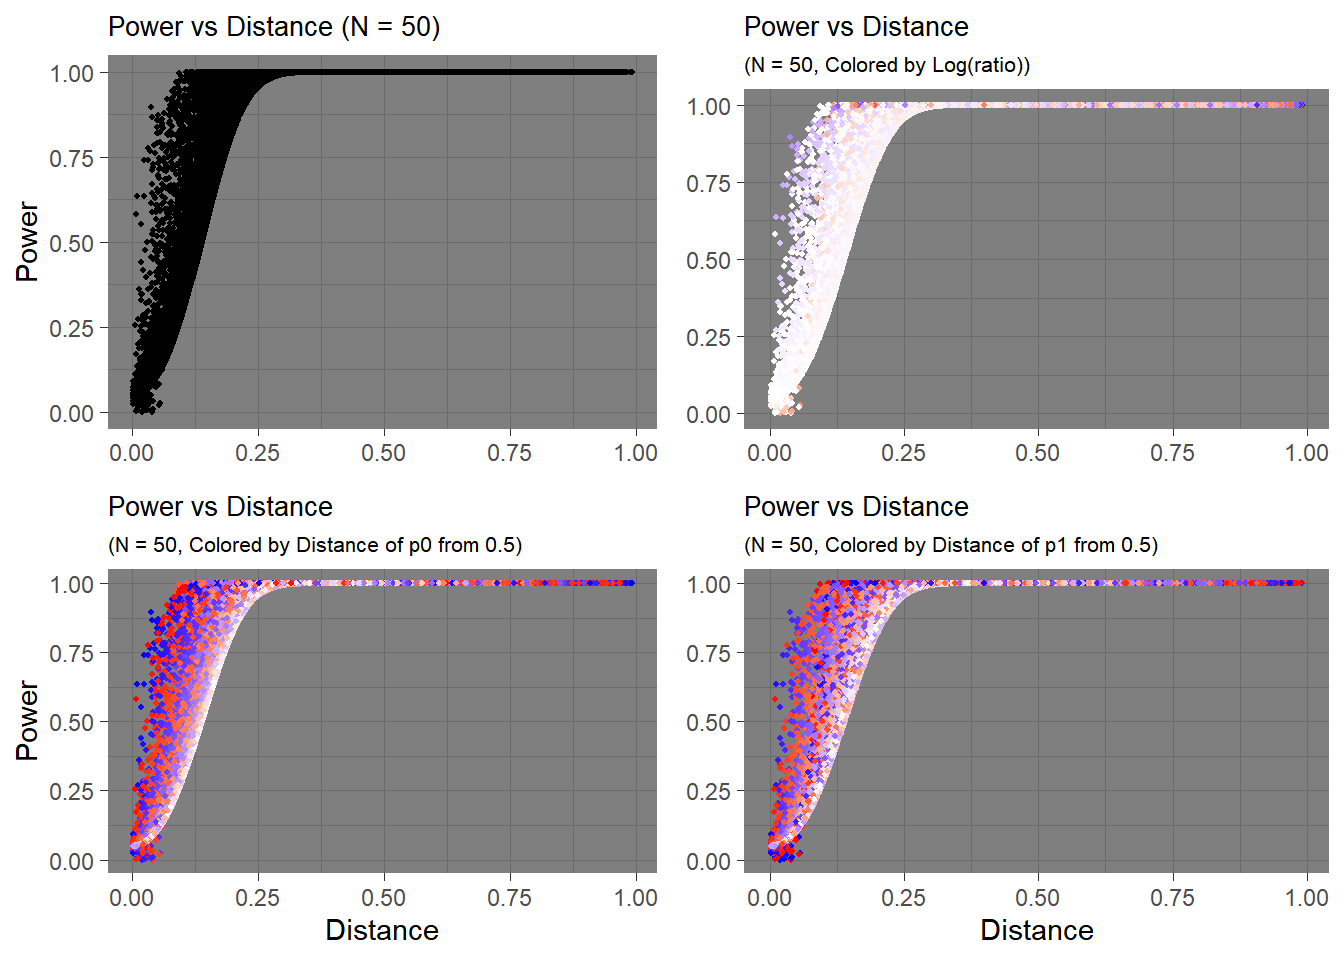
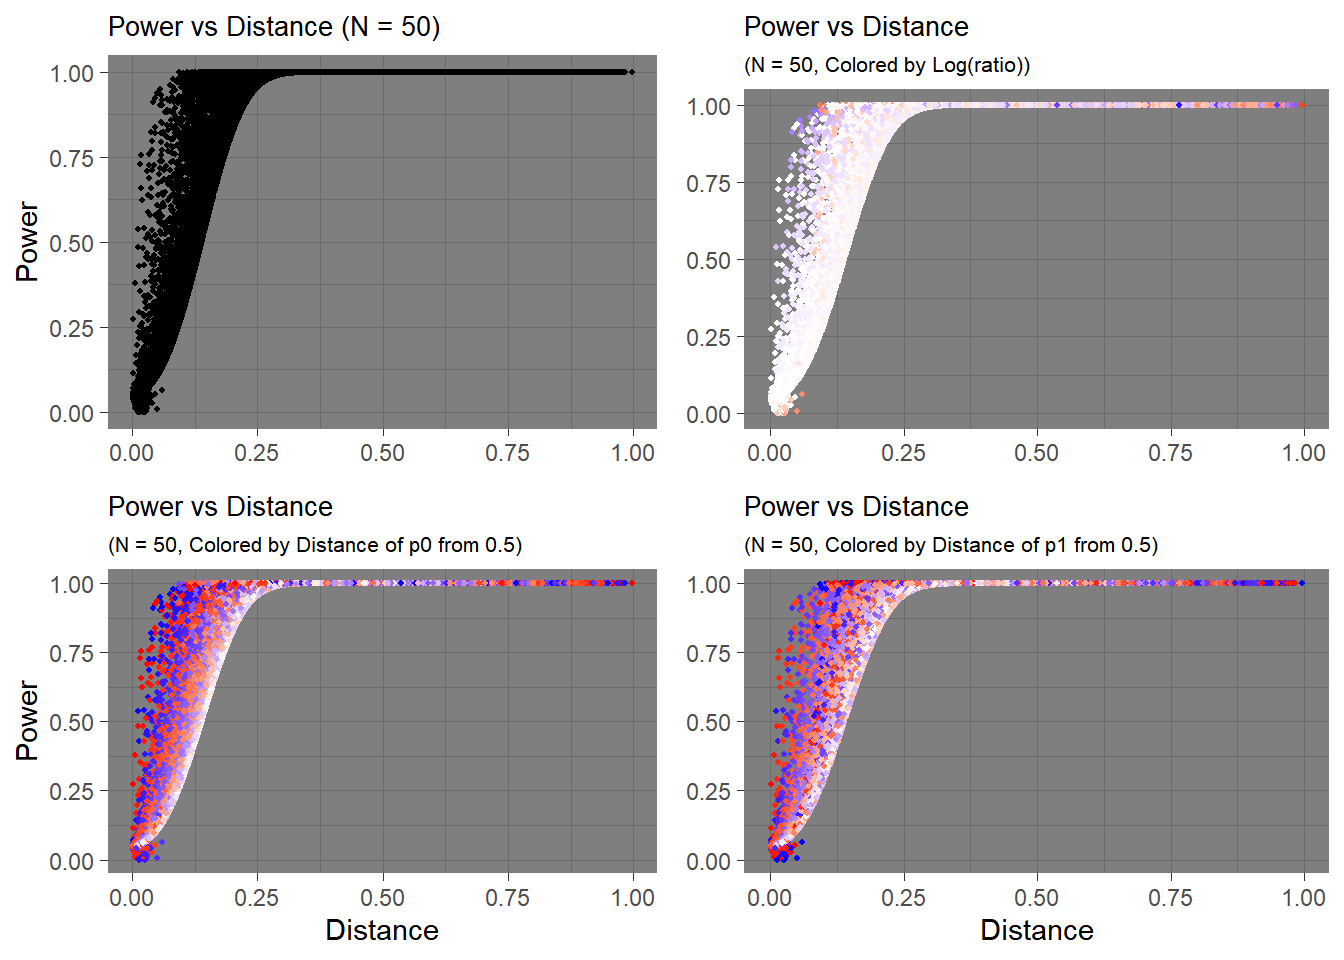
set seed for power post & move image to static folder

diff --git a/content/post/2019-10-17-grasping-power.en.html b/content/post/2019-10-17-grasping-power.en.html
@@ -1,7 +1,7 @@
 ---
 title: Grasping Power
 author: John Lee
-date: '2019-10-17'
+date: '2019-11-10'
 slug: grasping-power
 categories:
   - Statistics
@@ -14,7 +14,7 @@ subtitle: ''
 
 
 
-<p>I was reading a <a href="https://onlinelibrary.wiley.com/doi/abs/10.1002/9780471462422.eoct005">paper on calculation of sample sizes</a>, and I inevitably came across the topic of statistical power. Essentially, when you’re designing on experiment, the sample size is an important factor to consider due to limiting resources. You want to have a sample size that is neither too small (which could result in high chance of failure to detect true differences) nor too big (potential waste of resources, albeit yielding better estimation).</p>
+<p>I was reading a <a href="https://onlinelibrary.wiley.com/doi/abs/10.1002/9780471462422.eoct005">paper on calculation of sample sizes</a>, and I inevitably came across the topic of <strong>statistical power</strong>. Essentially, when you’re designing on experiment, the sample size is an important factor to consider due to limiting resources. You want to have a sample size that is neither too small (which could result in high chance of failure to detect true differences) nor too big (potential waste of resources, albeit yielding better estimation).</p>
 <p>It is useful to know the lowest sample size of a test that will detect real difference, if it exists, with a high probability. If I can provide a closed form solution for a statistical power, given the null and alternative hypothesis as well as <span class="math inline">\(\alpha\)</span> cutoff (Type I Error Rate), calculating the required sample size would be trivial (like actually trivial unlike the “trivial” proofs in abstract algebra texts).</p>
 <p>In addition to learning more about power, this should be a good practice to think about the relationship between the null and alternative distributions, and understand the different types of errors.</p>
 <div id="definition" class="section level2">
@@ -49,7 +49,7 @@ subtitle: ''
 <!--
 <p style="text-align:center"><small>[Source](https://knowyourmeme.com/memes/its-over-9000)</small></p>
 -->
-<p>Calculating the power of a test is fairly simple once divided into steps. The power is calculated based on the significance threshold and the alternative curve. So I’ll first have to calculate the threshold, which is determined by the null distribution. Once the threshold is calculated, identify the overlap between the area of rejecting the null hypothsis and the area of the alternative distribution.</p>
+<p>Calculating the power of a test is fairly simple once divided into steps. Power is calculated based on the significance threshold and the alternative curve. So I’ll first have to calculate the threshold, which is determined by the null distribution. Once the threshold is calculated, I identify the overlap between the area of rejecting the null hypothsis and the area of the alternative distribution.</p>
 <ol style="list-style-type: decimal">
 <li>Identify null distribution and alternative distribution.</li>
 <li>Calculate threshold at significance level <span class="math inline">\(\alpha\)</span> under null distribution.</li>
@@ -57,7 +57,7 @@ subtitle: ''
 </ol>
 <div id="example-with-a-one-sample-proportion-study" class="section level3">
 <h3>Example with a One Sample Proportion Study</h3>
-<p>I will assume a one sample proportion test for equality. Suppose I want to study the proportion of people that like statistics. If I want to test that chances of liking or not liking are not equal, <span class="math inline">\(H_0: p_0 = 0.5\)</span> and <span class="math inline">\(H_1: p_0 \neq 0.5\)</span>. Let <span class="math inline">\(p_1\)</span> denote the desired effect size. This is the proportion of the population if <span class="math inline">\(H_0\)</span> were not true, and some other value than <span class="math inline">\(p_0\)</span> is the true proportion. Imagine that I asked <span class="math inline">\(N\)</span> people. <span class="math inline">\(n_1\)</span> answered yes and <span class="math inline">\(n_2\)</span> answered no.</p>
+<p>I will assume a one sample proportion test for equality. Suppose I want to study the proportion of people that like statistics. If I want to test that chances of liking or not liking are not equal, then <span class="math inline">\(H_0: p_0 = 0.5\)</span> and <span class="math inline">\(H_1: p_0 \neq 0.5\)</span>. Let <span class="math inline">\(p_1\)</span> denote the desired effect size. This is the proportion of the population if <span class="math inline">\(H_0\)</span> were not true, and some other value than <span class="math inline">\(p_0\)</span> is the true proportion. Imagine that I asked <span class="math inline">\(N\)</span> people. <span class="math inline">\(n_1\)</span> answered yes and <span class="math inline">\(n_2\)</span> answered no.</p>
 <p>Summary:</p>
 <p><span class="math display">\[H_0: p_0 = 0.5\]</span> <span class="math display">\[H_1: p_0 \neq 0.5\]</span> <span class="math display">\[p_1 = \text{desired effect size}\]</span></p>
 <p><span class="math display">\[\text{Sample Size} = N = n_1 + n_2\]</span></p>
@@ -77,7 +77,7 @@ subtitle: ''
 </div>
 <div id="calculate-cutoff-at-alpha" class="section level3">
 <h3>2. Calculate Cutoff at <span class="math inline">\(\alpha\)</span></h3>
-<p>Now, I want to find the cutoff to that will make the significance level equal to some prespecified <span class="math inline">\(\alpha\)</span>. Usually this is chosen to be 0.05.</p>
+<p>Now, I want to find the cutoff that make the significance level equal to some prespecified <span class="math inline">\(\alpha\)</span>. Usually this is chosen to be 0.05.</p>
 <p>To calculate this value, we first focus on the null curve, because this is where the significance level is applied.</p>
 <p><img src="/post/2019-10-17-grasping-power.en_files/figure-html/power_calc_plot_2-1.png" width="672" /></p>
 <p>We want to make the red area equal to <span class="math inline">\(\alpha\)</span>.</p>
@@ -90,7 +90,7 @@ subtitle: ''
 <p>Now that we know the appropriate cutoff for a test to be significant, we can use this to find the power of the test. We shift the focus from the null curve to the alternative curve.</p>
 <p>Power is area under the alternative curve <em>beyond</em> the cutoff, described by the yellow area and blue arrows.</p>
 <p><img src="/post/2019-10-17-grasping-power.en_files/figure-html/power_calc_plot_3-1.png" width="672" /></p>
-<p>All we have to do is calculate area under <span class="math inline">\(H_1\)</span> for x values smaller than <span class="math inline">\(p_0-\hat{\epsilon}\)</span> and <span class="math inline">\(p_0+\hat{\epsilon}\)</span>.</p>
+<p>All we have to do is calculate area under <span class="math inline">\(H_1\)</span> for x values smaller than <span class="math inline">\(p_0-\hat{\epsilon}\)</span> and bigger than <span class="math inline">\(p_0+\hat{\epsilon}\)</span>.</p>
 <p>I’ll try to derive a closed form formula by using <span class="math inline">\(\Phi\)</span>. Because the distribution of interest is from <span class="math inline">\(H_1\)</span> now, the mean and the standard deviation used to calculate the standardized z-score will be of the alternative hypothesis, which are <span class="math inline">\(p_1\)</span> and <span class="math inline">\(p_1(1-p_1)\)</span>.</p>
 <p><span class="math display">\[z_{std} = \dfrac{\Big(p_0\pm\frac{\Phi^{-1}(\frac{\alpha}{2})\sqrt{p_0(1-p_0)}}{\sqrt{n}} - p_1\Big)}{\sqrt{\frac{1}{n}p_1(1-p_1)}} = \dfrac{\sqrt{n}(p_0-p_1)\pm\Phi^{-1}(\frac{\alpha}{2})\sqrt{p_0(1-p_0)}}{\sqrt{p_1(1-p_1)}}\]</span></p>
 <p>Then <span class="math display">\[1-\beta = \Phi\bigg(\dfrac{\sqrt{n}(p_0-p_1)-\Phi^{-1}(\frac{\alpha}{2})\sqrt{p_0(1-p_0)}}{\sqrt{p_1(1-p_1)}}\bigg) + \\ \Bigg(1 - \Phi\bigg(\dfrac{\sqrt{n}(p_0-p_1)+ \Phi^{-1}(\frac{\alpha}{2})\sqrt{p_0(1-p_0)}}{\sqrt{p_1(1-p_1)}}\bigg)\Bigg)\]</span></p>
@@ -115,11 +115,11 @@ subtitle: ''
 <p>To calculate the powers per distance, I generated a sequence of <span class="math inline">\(p_0\)</span> and <span class="math inline">\(p_1\)</span> with an interval of 0.001, generated all combinations of the two proportions, measured the distance, and calculated power with <span class="math inline">\(p_0\)</span>, <span class="math inline">\(p_1\)</span>, and for sample sizes <span class="math inline">\(N = 10, 50, 100, 120\)</span>.</p>
 <p>The data I created looks like this:</p>
 <pre><code>##           p0    p1 distance   power_10   power_50  power_100  power_120
-## 924562 0.487 0.926    0.439 0.94072227 1.00000000 1.00000000 1.00000000
-## 731752 0.484 0.733    0.249 0.33211541 0.96129276 0.99968043 0.99996119
-## 847004 0.851 0.848    0.003 0.05198269 0.05231017 0.05271969 0.05288354
-## 395761 0.157 0.397    0.240 0.53869183 0.97784696 0.99971749 0.99995500
-## 543130 0.673 0.544    0.129 0.15605304 0.49428260 0.77156042 0.83920449</code></pre>
+## 129063 0.192 0.130    0.062 0.04540139 0.16078902 0.32568632 0.39130334
+## 163070 0.233 0.164    0.069 0.05198483 0.17897345 0.35414586 0.42217874
+## 848274 0.123 0.850    0.727 0.99999822 1.00000000 1.00000000 1.00000000
+## 804463 0.268 0.806    0.538 0.98244496 1.00000000 1.00000000 1.00000000
+## 691980 0.672 0.693    0.021 0.04830646 0.05741613 0.06895799 0.07361936</code></pre>
 <p>Instead of plotting all combinations of <span class="math inline">\(p_0\)</span> and <span class="math inline">\(p_1\)</span> at fixed intervals (0.001), I randomly sampled pairs and calculated power and distance due to large number of combinations. Although the graph will look like random data, the values are in fact deterministic, and the visible trend remains.</p>
 <p><img src="/post/2019-10-17-grasping-power.en_files/figure-html/pvp1-1.png" width="672" /></p>
 <p>Hmm… It seems although the distance seems to have some influence on power, other factors also influence it. What is distance not capturing? For my previous example, I considered <span class="math inline">\(p_0=0.5,p_1=0.6\)</span> and <span class="math inline">\(p_0=0.3,p_1=0.2\)</span>. Could the values themselves matter?</p>
